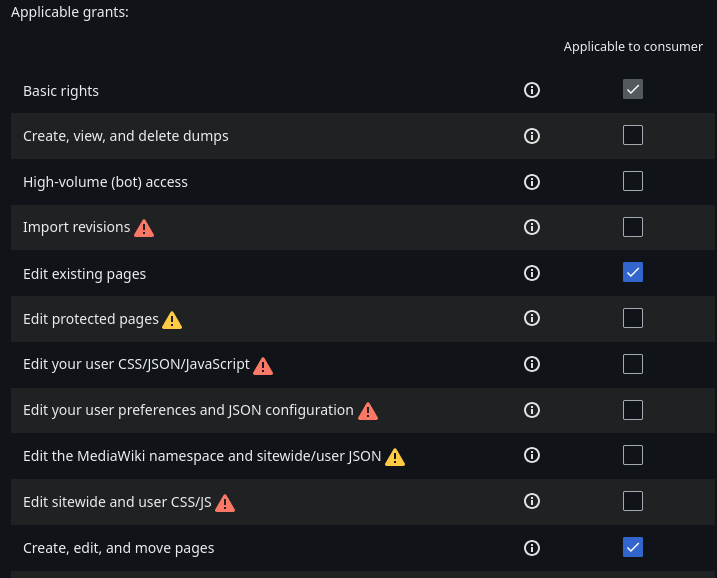
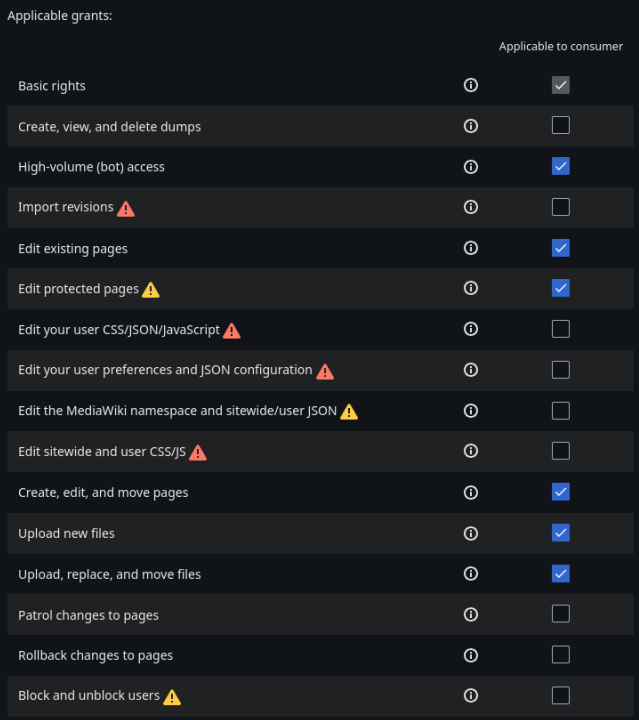
docs: improved docs on adding the bot

diff --git a/TECHNICAL.md b/TECHNICAL.md
@@ -1,0 +1,37 @@
+# Technical Documentation
+
+> [!WARNING]
+> This documentation is only for contributors. Please refer to [README.md](README.md) for information on the bot.
+
+## Setup for Miraheze wikis
+
+Requirements:
+* The *TemplateStyles* and *ParserFunctions* extensions need to be enabled.
+
+1. Grant the bot account (IRWABot) the `bot` user group.
+    a. If the bot account is not present on the wiki, please ping @abaddriverlol on the discord server.
+2. Add the wiki to `wikis.json` with the access token being set to `MIRAHEZE_ACCESS_TOKEN`.
+
+## Setup for 3rd-party-wikis
+
+Requirements:
+* https://www.mediawiki.org/wiki/Extension:ParserFunctions
+* https://www.mediawiki.org/wiki/Extension:TemplateStyles
+* https://www.mediawiki.org/wiki/Extension:OAuth
+
+1. Create a bot account on your wiki, give it the confirmed user group and log in with it.
+2. Go to *Special:OAuthConsumerRegistration* on your wiki.
+3. Click "Request a token for a new OAuth 2.0 client.".
+4. Enter the following into the form:
+    a. Application name: `Independent Roblox Wiki Alliance Bot`
+    b. Consumer version: `1.0`
+    c. Application description: `Bot used for synchronizing templates across multiple wikis that are part of the of the Roblox Wiki Alliance.`
+    d. Check `This consumer is for use only by <bot username>.`
+    e. Make sure `Client is confidential` is checked.
+    f. Set `Types of grants being requested` to `Request authorization for specific permissions.`.
+    g. Check the following grants:
+      ![A screenshot of Special:OAuthConsumerRegistration showing the rights required by the bot.](assets/img/bot_rights.png)
+    h. Leave the `Allowed pages for editing` field empty.
+    i. Propose the consumer.
+5. Save the generated access token and add it to the repository secrets.
+6. Add the wiki to wikis.json and specify to the access token secret you added in step 5.

diff --git a/README.md b/README.md
@@ -2,21 +2,21 @@
 
 This repo provides and deploys shared templates on member wikis of the Independent Roblox Wiki Alliance.
 
-## Setup for Miraheze wikis
+## Adding the bot to your wiki
 
-1. Grant the bot account (IRWABot) the `bot` user group.
-(TODO)
+> [!IMPORTANT
+> Your wiki must be a part of the Indie Roblox Wiki Alliance (IRWA) for it to be added to the bot.
 
-## Setup for 3rd-party-wikis
+To request the addition of the bot to your wiki, please [open an issue](https://github.com/Roblox-Indie-Wikis/irwa-templates/issues) using the *Add wiki* issue form. A bureaucrat is required to approve the process before the issue will be handled.
 
-Requirements:
-* https://www.mediawiki.org/wiki/Extension:OAuth
+## What the bot does
 
-(TODO)
+The bot will
 
-### Bot permissions
+* create 1 template page (Template:IRWA)
+* create 1 template css page (Template:IRWA/styles.css)
+* upload 7 wiki logos (see `templates/img` folder)
 
-![A screenshot of Special:OAuthConsumerRegistration showing the rights required by the bot.](assets/img/bot_rights.png)
+and keep these updated based on changes in the repo.
 
-* Edit existing pages
-* Create, edit and move pages
+Note that these numbers will increase with future changes regarding the alliance.
